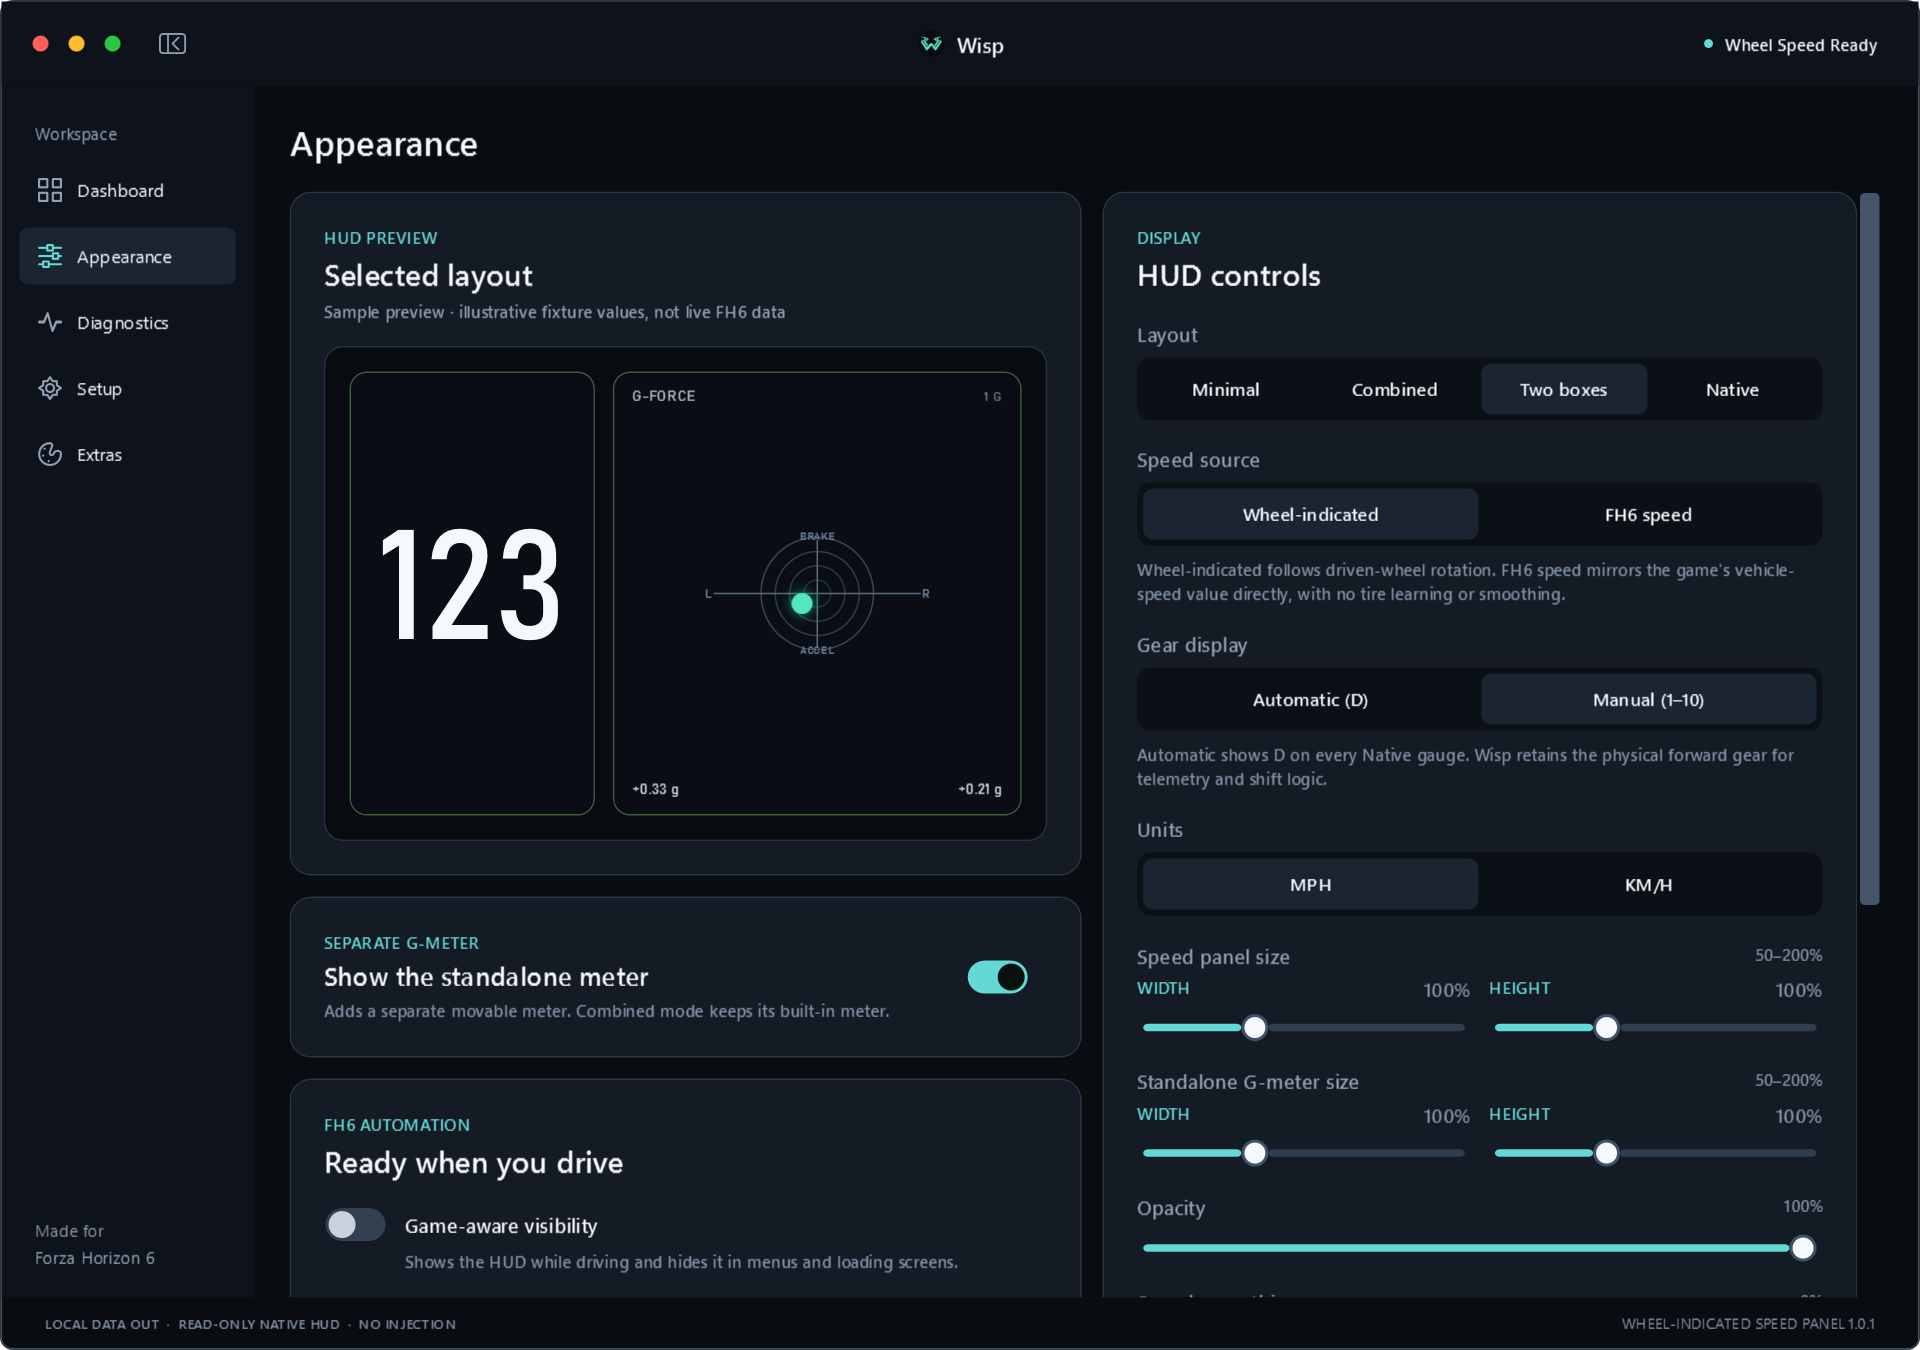
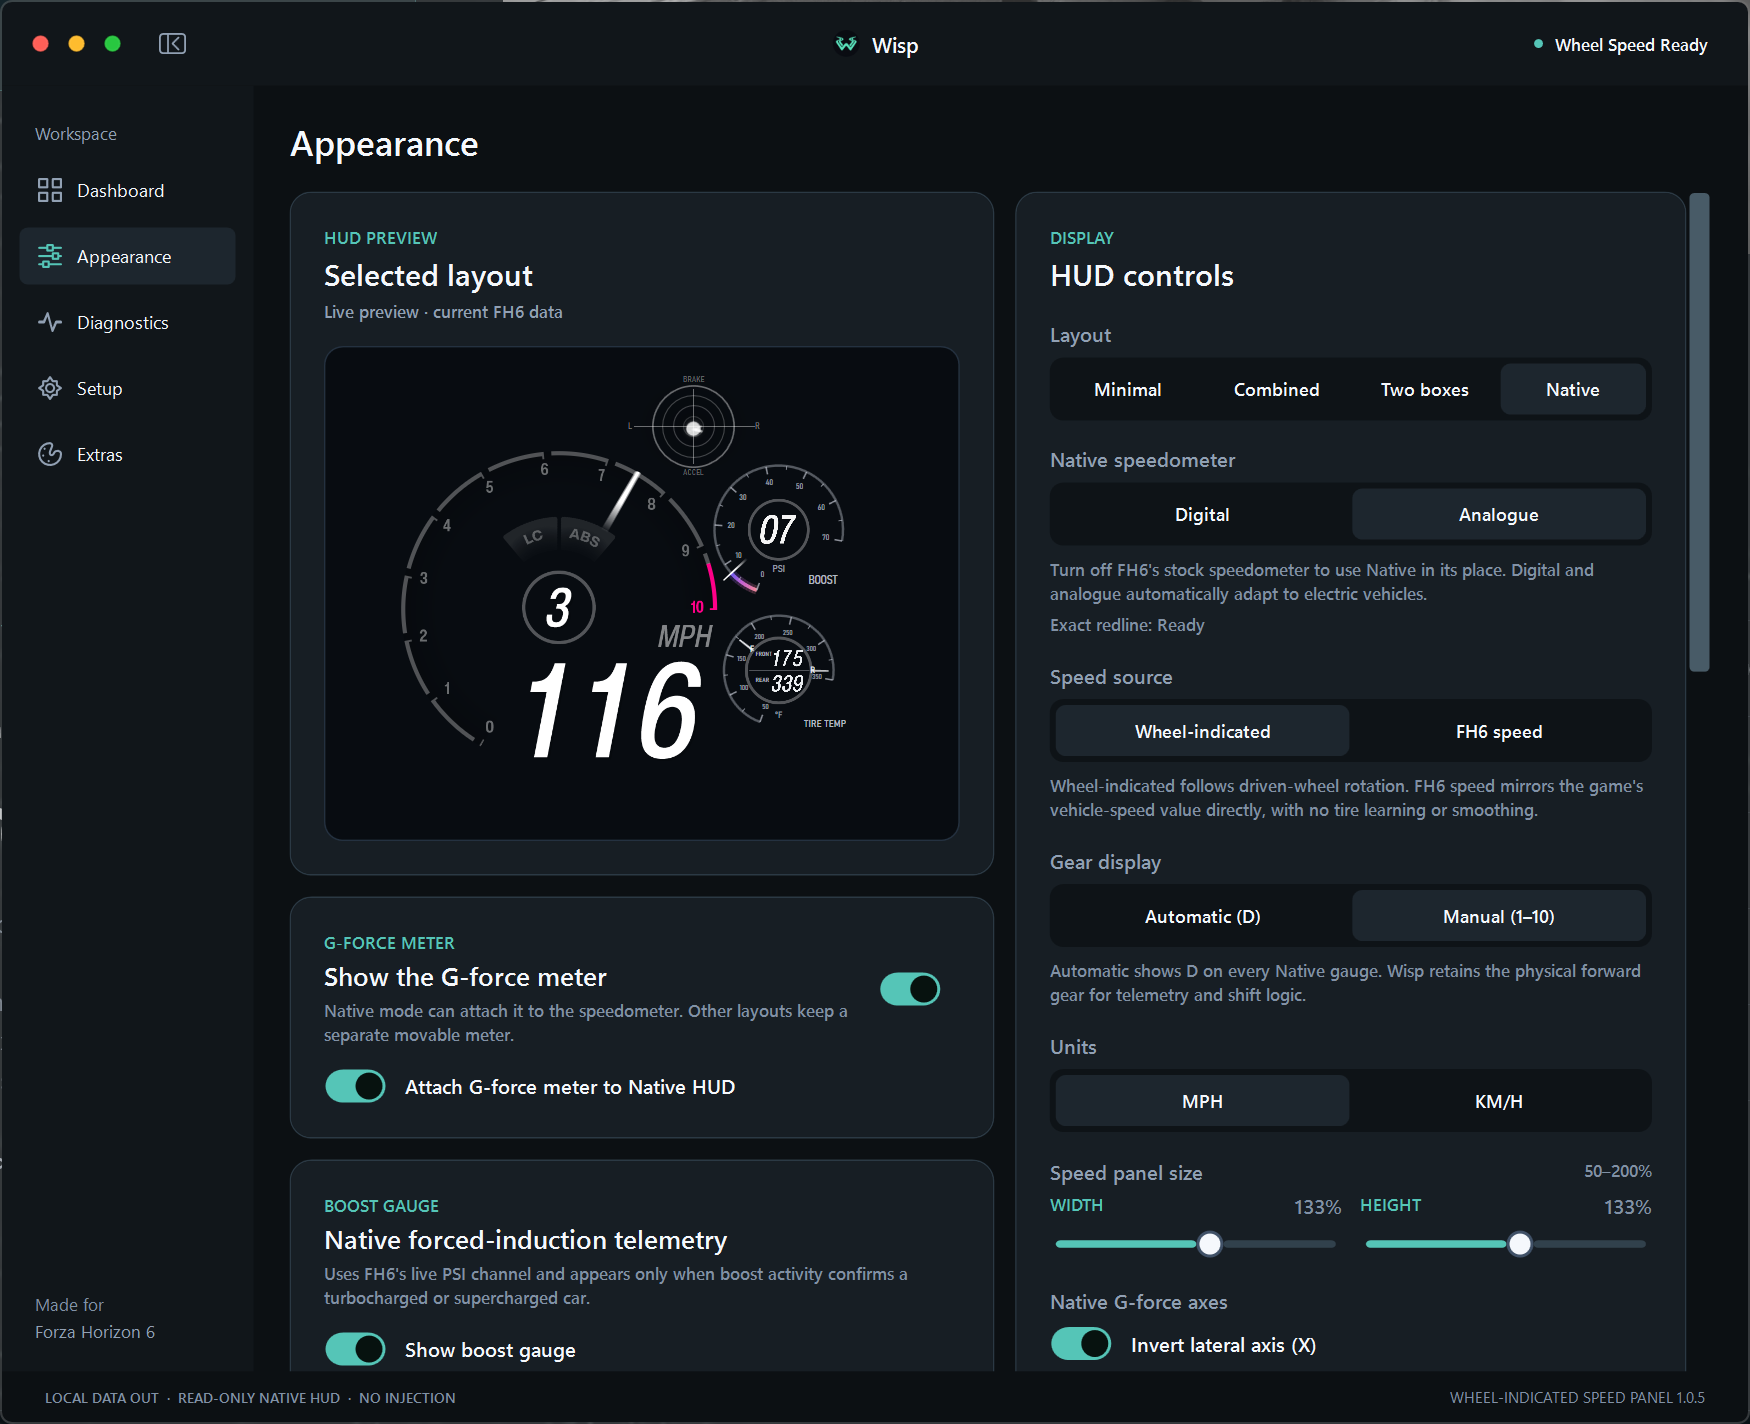
Refresh the Appearance gallery

diff --git a/README.md b/README.md
@@ -67,18 +67,18 @@ See [Boost Gauge](docs/BOOST-GAUGE.md),
 <table>
   <tr>
     <td width="50%">
-      <img src="docs/images/native-digital-hud.png" alt="Wisp Digital Native HUD with boost and tire-temperature rails during FH6 gameplay">
-      <br><sub>Digital Native HUD with attached boost and front/rear tire-temperature rails.</sub>
+      <img src="docs/images/themes.png" alt="Wisp Appearance page showing the Native Analogue HUD preview and overlay controls">
+      <br><sub>Appearance controls with the complete Native Analogue HUD preview.</sub>
     </td>
     <td width="50%">
-      <img src="docs/images/native-analogue-hud.png" alt="Wisp Analogue Native HUD with attached boost and tire-temperature dials during FH6 gameplay">
-      <br><sub>Analogue Native HUD with attached boost and dual-needle tire-temperature dials.</sub>
+      <img src="docs/images/native-digital-hud.png" alt="Wisp Digital Native HUD with boost and tire-temperature rails during FH6 gameplay">
+      <br><sub>Digital Native HUD with attached boost and front/rear tire-temperature rails.</sub>
     </td>
   </tr>
   <tr>
     <td width="50%">
-      <img src="docs/images/themes.png" alt="Wisp theme controls">
-      <br><sub>Accent, background, HUD border, and telemetry-gauge palettes are selected independently.</sub>
+      <img src="docs/images/native-analogue-hud.png" alt="Wisp Analogue Native HUD with attached boost and tire-temperature dials during FH6 gameplay">
+      <br><sub>Analogue Native HUD with attached boost and dual-needle tire-temperature dials.</sub>
     </td>
     <td width="50%">
       <img src="docs/images/diagnostics.png" alt="Wisp diagnostics with populated telemetry data">
